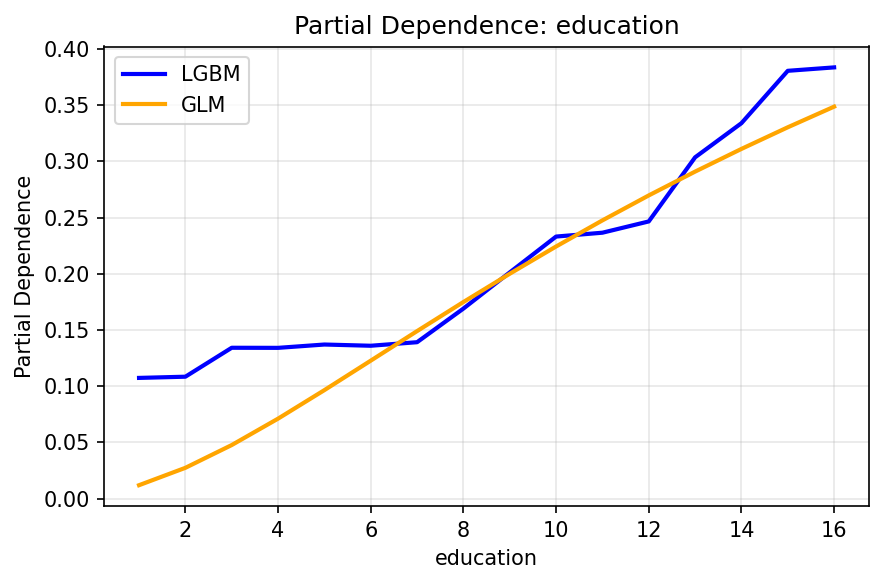
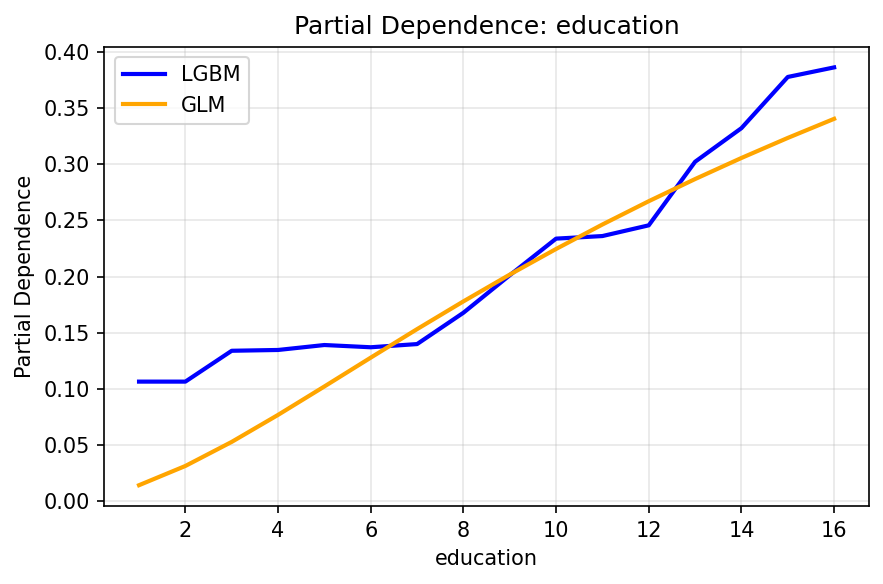
add new feature is_married_healthy and update training output

diff --git a/src/tests/test_cleaning.py b/src/tests/test_cleaning.py
@@ -1,8 +1,8 @@
-import numpy as np
-import pandas as pd
+import polars as pl
 import pytest
 
 from income_predict_d100_d400.cleaning import (
+    binarize_marital_status,
     encode_education,
     replace_question_marks_with_nan,
 )
@@ -12,26 +12,47 @@ from income_predict_d100_d400.cleaning import (
     "education, expected", [("Bachelors", 13), ("HS-grad", 9), ("Masters", 14)]
 )
 def test_encode_education(education, expected):
-    df = pd.DataFrame({"education": [education]})
+    df = pl.DataFrame({"education": [education]})
     result = encode_education(df)
-    assert result["education"].iloc[0] == expected
+    assert result["education"].item(0) == expected
 
 
 @pytest.mark.parametrize(
     "raw_value, expected",
     [
         ("Private", "Private"),
-        ("?", np.nan),
-        (" ?", np.nan),
+        ("?", None),
+        (" ?", None),
     ],
 )
 def test_replace_question_marks(raw_value, expected):
-    df = pd.DataFrame({"workclass": [raw_value]})
+    df = pl.DataFrame({"workclass": [raw_value]})
+    # Pre-clean whitespace as replace_question_marks_with_nan expects trimmed strings
+    # or relies on the full pipeline. The function itself calls strip_chars().
     result = replace_question_marks_with_nan(df)
 
-    actual = result["workclass"].iloc[0]
+    actual = result["workclass"].item(0)
 
-    if pd.isna(expected):
-        assert pd.isna(actual)
+    if expected is None:
+        assert actual is None
     else:
         assert actual == expected
+
+
+@pytest.mark.parametrize(
+    "status, expected",
+    [
+        ("Married-civ-spouse", True),
+        ("Married-AF-spouse", True),
+        ("Divorced", False),
+        ("Never-married", False),
+    ],
+)
+def test_binarize_marital_status(status, expected):
+    """Test is_married_healthy creation."""
+    df = pl.DataFrame({"marital_status": [status]})
+    result = binarize_marital_status(df)
+
+    assert "is_married_healthy" in result.columns
+    assert "marital_status" not in result.columns
+    assert result["is_married_healthy"].item(0) == expected

diff --git a/src/income_predict_d100_d400/cleaning.py b/src/income_predict_d100_d400/cleaning.py
@@ -20,7 +20,8 @@ COLUMN_RENAMING: Dict[str, str] = {
     "income": "income",
 }
 
-COLUMNS_TO_DROP: List[str] = ["fnlwgt", "education-num", "income", "marital_status"]
+# Removed "marital_status" from this list so we can process it first
+COLUMNS_TO_DROP: List[str] = ["fnlwgt", "education-num", "income"]
 
 EDUCATION_ORDER: Dict[str, int] = {
     "Preschool": 1,
@@ -114,6 +115,24 @@ def binarize_sex(df: pl.DataFrame) -> pl.DataFrame:
         The DataFrame with 'is_female' column added and 'sex' removed.
     """
     return df.with_columns((pl.col("sex") == "Female").alias("is_female")).drop("sex")
+
+
+def binarize_marital_status(df: pl.DataFrame) -> pl.DataFrame:
+    """
+    Convert marital_status column to binary column: is_married_healthy.
+    1 if 'Married-civ-spouse' or 'Married-AF-spouse', 0 otherwise.
+
+    Parameters:
+        df: The DataFrame containing the 'marital_status' column.
+
+    Returns:
+        The DataFrame with 'is_married_healthy' column added and 'marital_status' removed.
+    """
+    return df.with_columns(
+        pl.col("marital_status")
+        .is_in(["Married-civ-spouse", "Married-AF-spouse"])
+        .alias("is_married_healthy")
+    ).drop("marital_status")
 
 
 def add_interaction_features(df: pl.DataFrame) -> pl.DataFrame:
@@ -228,6 +247,7 @@ def full_clean(df: pl.DataFrame) -> pl.DataFrame:
     df = combine_married(df)
     df = binarize_race(df)
     df = binarize_sex(df)
+    df = binarize_marital_status(df)  # Added new step
     df = add_interaction_features(df)
 
     return df

diff --git a/src/benchmarks/benchmark_pandas_polars.py b/src/benchmarks/benchmark_pandas_polars.py
@@ -37,7 +37,7 @@ COLUMN_RENAMING: Dict[str, str] = {
     "income": "income",
 }
 
-COLUMNS_TO_DROP: list[str] = ["fnlwgt", "education-num", "income", "marital_status"]
+COLUMNS_TO_DROP: list[str] = ["fnlwgt", "education-num", "income"]
 
 EDUCATION_ORDER: Dict[str, int] = {
     "Preschool": 1,
@@ -78,6 +78,13 @@ def pandas_load_and_clean() -> pd.DataFrame:
     df["is_white"] = df["race"] == "White"
     df["is_black"] = df["race"] == "Black"
     df = df.drop(columns=["race"])
+
+    # New logic for is_married_healthy
+    df["is_married_healthy"] = df["marital_status"].isin(
+        ["Married-civ-spouse", "Married-AF-spouse"]
+    )
+    df = df.drop(columns=["marital_status"])
+
     return df
 
 
@@ -116,6 +123,13 @@ def polars_load_and_clean() -> pl.DataFrame:
             (pl.col("race") == "Black").alias("is_black"),
         ]
     ).drop("race")
+
+    df = df.with_columns(
+        pl.col("marital_status")
+        .is_in(["Married-civ-spouse", "Married-AF-spouse"])
+        .alias("is_married_healthy")
+    ).drop("marital_status")
+
     return df
 
 

diff --git a/src/income_predict_d100_d400/model_training.py b/src/income_predict_d100_d400/model_training.py
@@ -31,6 +31,7 @@ NUMERIC_FEATURES = [
     "is_white",
     "is_black",
     "is_female",
+    "is_married_healthy",
 ]
 
 # GLM gets interaction features. LGBM learns them automatically
